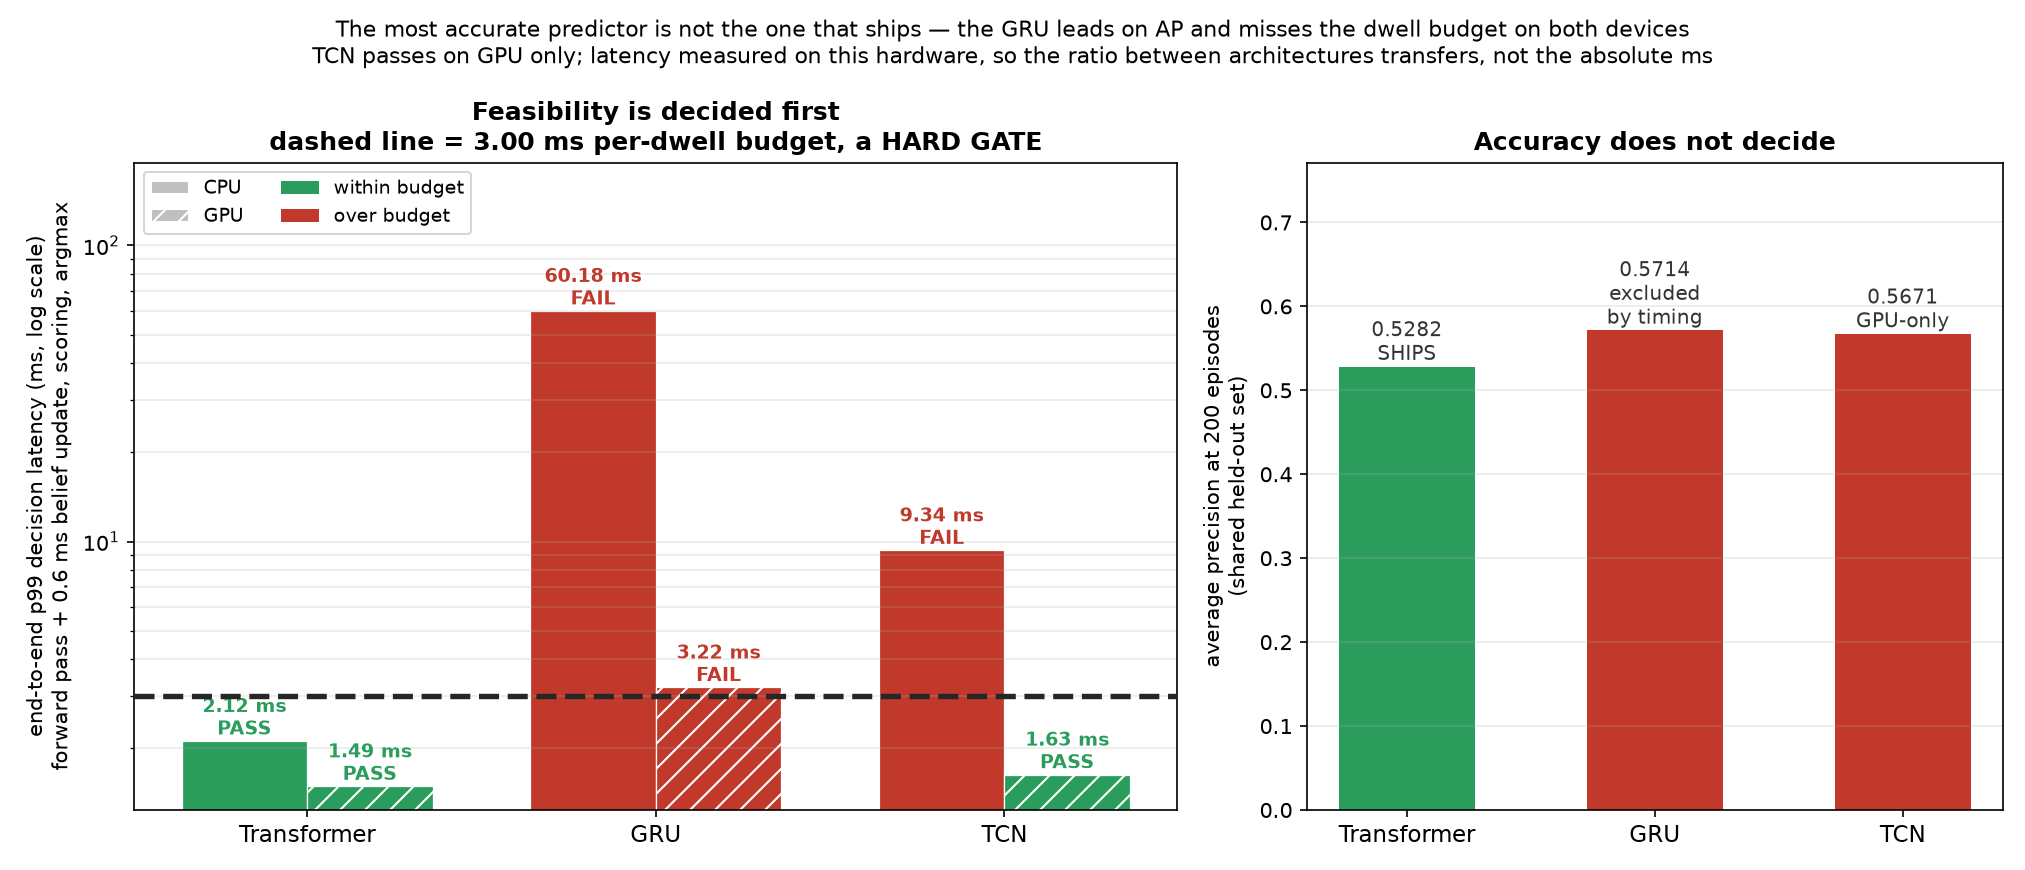
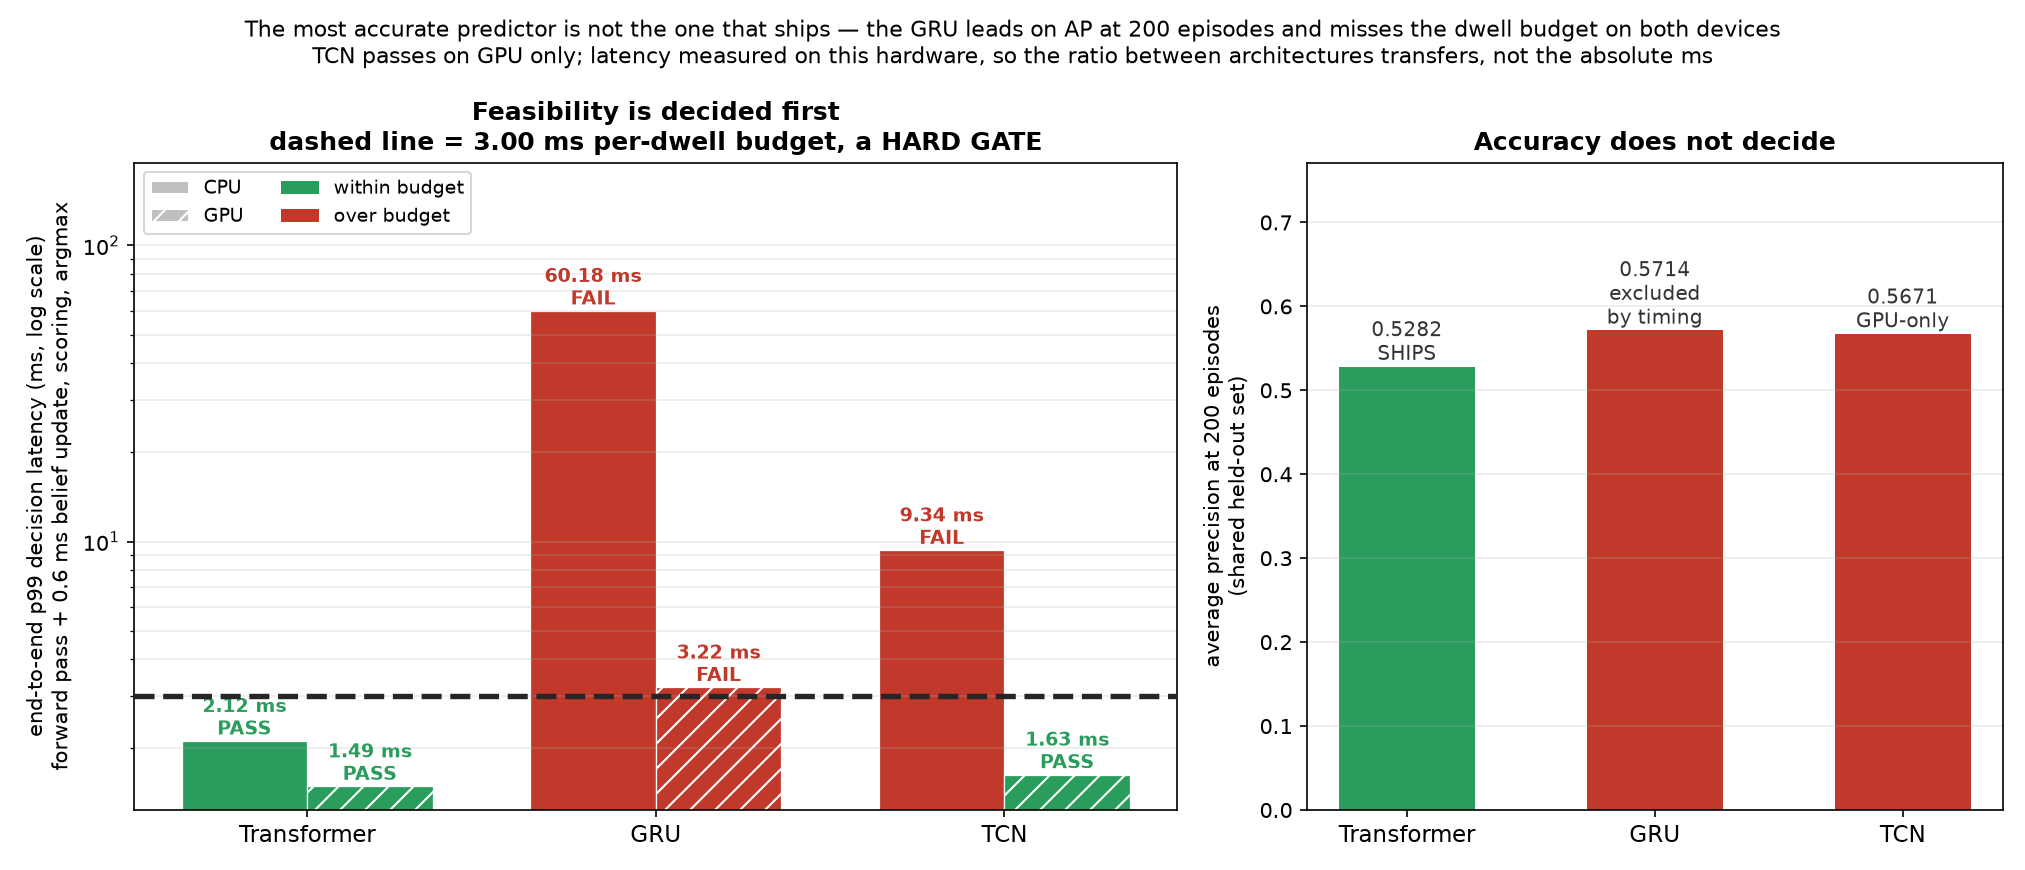
Consistency audit: qualify every accuracy claim with its training volume
Swept README, docs, reports, dashboard and figure code for "best",
"improves", "significant", "full-corpus", "more accurate" and "generalises",
checking each against reports/claims.md. Two genuine inconsistencies, both
introduced by this project's own recent work.

"The more accurate GRU" appeared unqualified in the README and in the latency
figure's title. That contradicts the interaction result established hours
earlier: the GRU is more accurate at 200 episodes and barely above the base
rate at 40, where the transformer leads by 0.390 AP. Every such phrase now
carries its volume, because without it the claim is not merely vague but
inconsistent with volume_control.md.

reports/predictor_sweep_ps.md was titled "Best scheduler with the better
predictor" and ran against the full-corpus HARD checkpoint whose provenance
is quarantined. Both claims are on the "do not claim" list. Retitled, and
given a banner that separates what survives from what does not: the scheduler
comparisons remain valid because every arm shares one predictor and one
inference budget, so the predictor is a constant rather than a variable --
but "better predictor" is not supported, and the production architecture is
now the transformer on feasibility grounds.

The remaining matches are legitimate: table row labels ("best online /
designed"), a local variable named `best` in the dashboard verdict, warnings
against reading a number as "best scheduler", and statistical uses of
[…]

Changed region(s): [[0.1244, 0.0, 0.8711, 0.0621]]

diff --git a/scripts/latency_figure.py b/scripts/latency_figure.py
@@ -1,7 +1,9 @@
 #!/usr/bin/env python
 """Why the more accurate predictor does not ship.
 
-The GRU has the highest average precision of any architecture measured. It is
+The GRU has the highest average precision of any architecture measured **at
+200 training episodes** -- at 40 it is barely above the base rate, which is
+the interaction reported in volume_control.md. It is
 not the production model. A table states that; a figure should make it
 obvious without being read closely.
 
@@ -131,8 +133,12 @@ def plot(rep: dict, overhead: float, out: Path) -> None:
     ax2.set_title("Accuracy does not decide", fontsize=12, fontweight="bold")
     ax2.grid(alpha=0.25, axis="y")
 
-    fig.suptitle("The most accurate predictor is not the one that ships — "
-                 "the GRU leads on AP and misses the dwell budget on both devices\n"
+    # "leads on AP" carries its volume, because at 40 episodes it does not:
+    # the ranking reverses, and an unqualified claim here would contradict
+    # volume_control.md.
+    fig.suptitle("The most accurate predictor is not the one that ships — the GRU "
+                 "leads on AP at 200 episodes and misses the dwell budget on both "
+                 "devices\n"
                  "TCN passes on GPU only; latency measured on this hardware, so the "
                  "ratio between architectures transfers, not the absolute ms",
                  fontsize=10.5)

diff --git a/README.md b/README.md
@@ -22,7 +22,7 @@ experimental discipline that established them:
 | **Temporal persistence selects the regime.** Holding emitter count fixed, the predictor's intercept-time advantage crosses **+18.0% → −30.2%** as half the emitters become non-persistent | 30 paired seeds/condition, bootstrap CI, Wilcoxon |
 | **Density amplifies the cost of a wrong exploitation decision**, without changing its sign — **−297.5% → −1660.2%** at an identical persistence profile | 30 paired seeds, persistence held constant |
 | **Architecture and training volume interact strongly**: the GRU gains **16.4×** what the Transformer gains from 5× more data, and the ranking reverses | **one seed per cell — descriptive, no significance claimed** |
-| **Deployment is decided by a latency gate, not by accuracy.** The Transformer ships at 2.12 ms p99; the more accurate GRU is excluded at 60.2 ms | measured on this hardware; the ratio transfers, not the absolute ms |
+| **Deployment is decided by a latency gate, not by accuracy.** The Transformer ships at 2.12 ms p99; the GRU, more accurate **at 200 episodes**, is excluded at 60.2 ms | measured on this hardware; the ratio transfers, not the absolute ms |
 
 ![architecture x volume interaction](reports/volume_interaction.png)
 
@@ -35,7 +35,8 @@ volume.
 
 **And none of that decides what ships.** The Transformer is the production
 predictor because it clears the 3 ms end-to-end decision budget at 2.12 ms
-p99; the more accurate GRU is excluded at 60.2 ms on CPU and 3.22 ms on GPU.
+p99; the GRU — more accurate **at 200 episodes**, though not at 40 — is
+excluded at 60.2 ms on CPU and 3.22 ms on GPU.
 Deployability is a gate applied before accuracy, not a metric traded against
 it.
 

diff --git a/reports/predictor_sweep_ps.md b/reports/predictor_sweep_ps.md
@@ -1,4 +1,18 @@
-# Best scheduler with the better predictor
+# Scheduler comparison at a fixed inference budget
+
+> **Superseded in one respect, and the qualifier matters.** This ran against
+> the full-corpus HARD predictor, and that checkpoint's provenance is
+> **quarantined**: the run that produced it changed architecture, batch size,
+> epochs and teacher epochs along with the corpus, so its improvement is not
+> attributable to the corpus. See
+> [`evidence_status.md`](evidence_status.md) and
+> [`claims.md`](claims.md).
+>
+> The *scheduler* comparisons below remain valid -- every arm uses the same
+> predictor and the same inference budget, so the predictor is a constant
+> rather than a variable. What is not supported is the original title's claim
+> of a "better predictor", and the production architecture is now the
+> transformer on feasibility grounds ([`arch_latency.md`](arch_latency.md)).
 
 _6 paired seeds per tier, full-corpus HARD predictor (AUC 0.7459), identical
 inference budget (`predict_every=16`) for every predictor-based arm._
